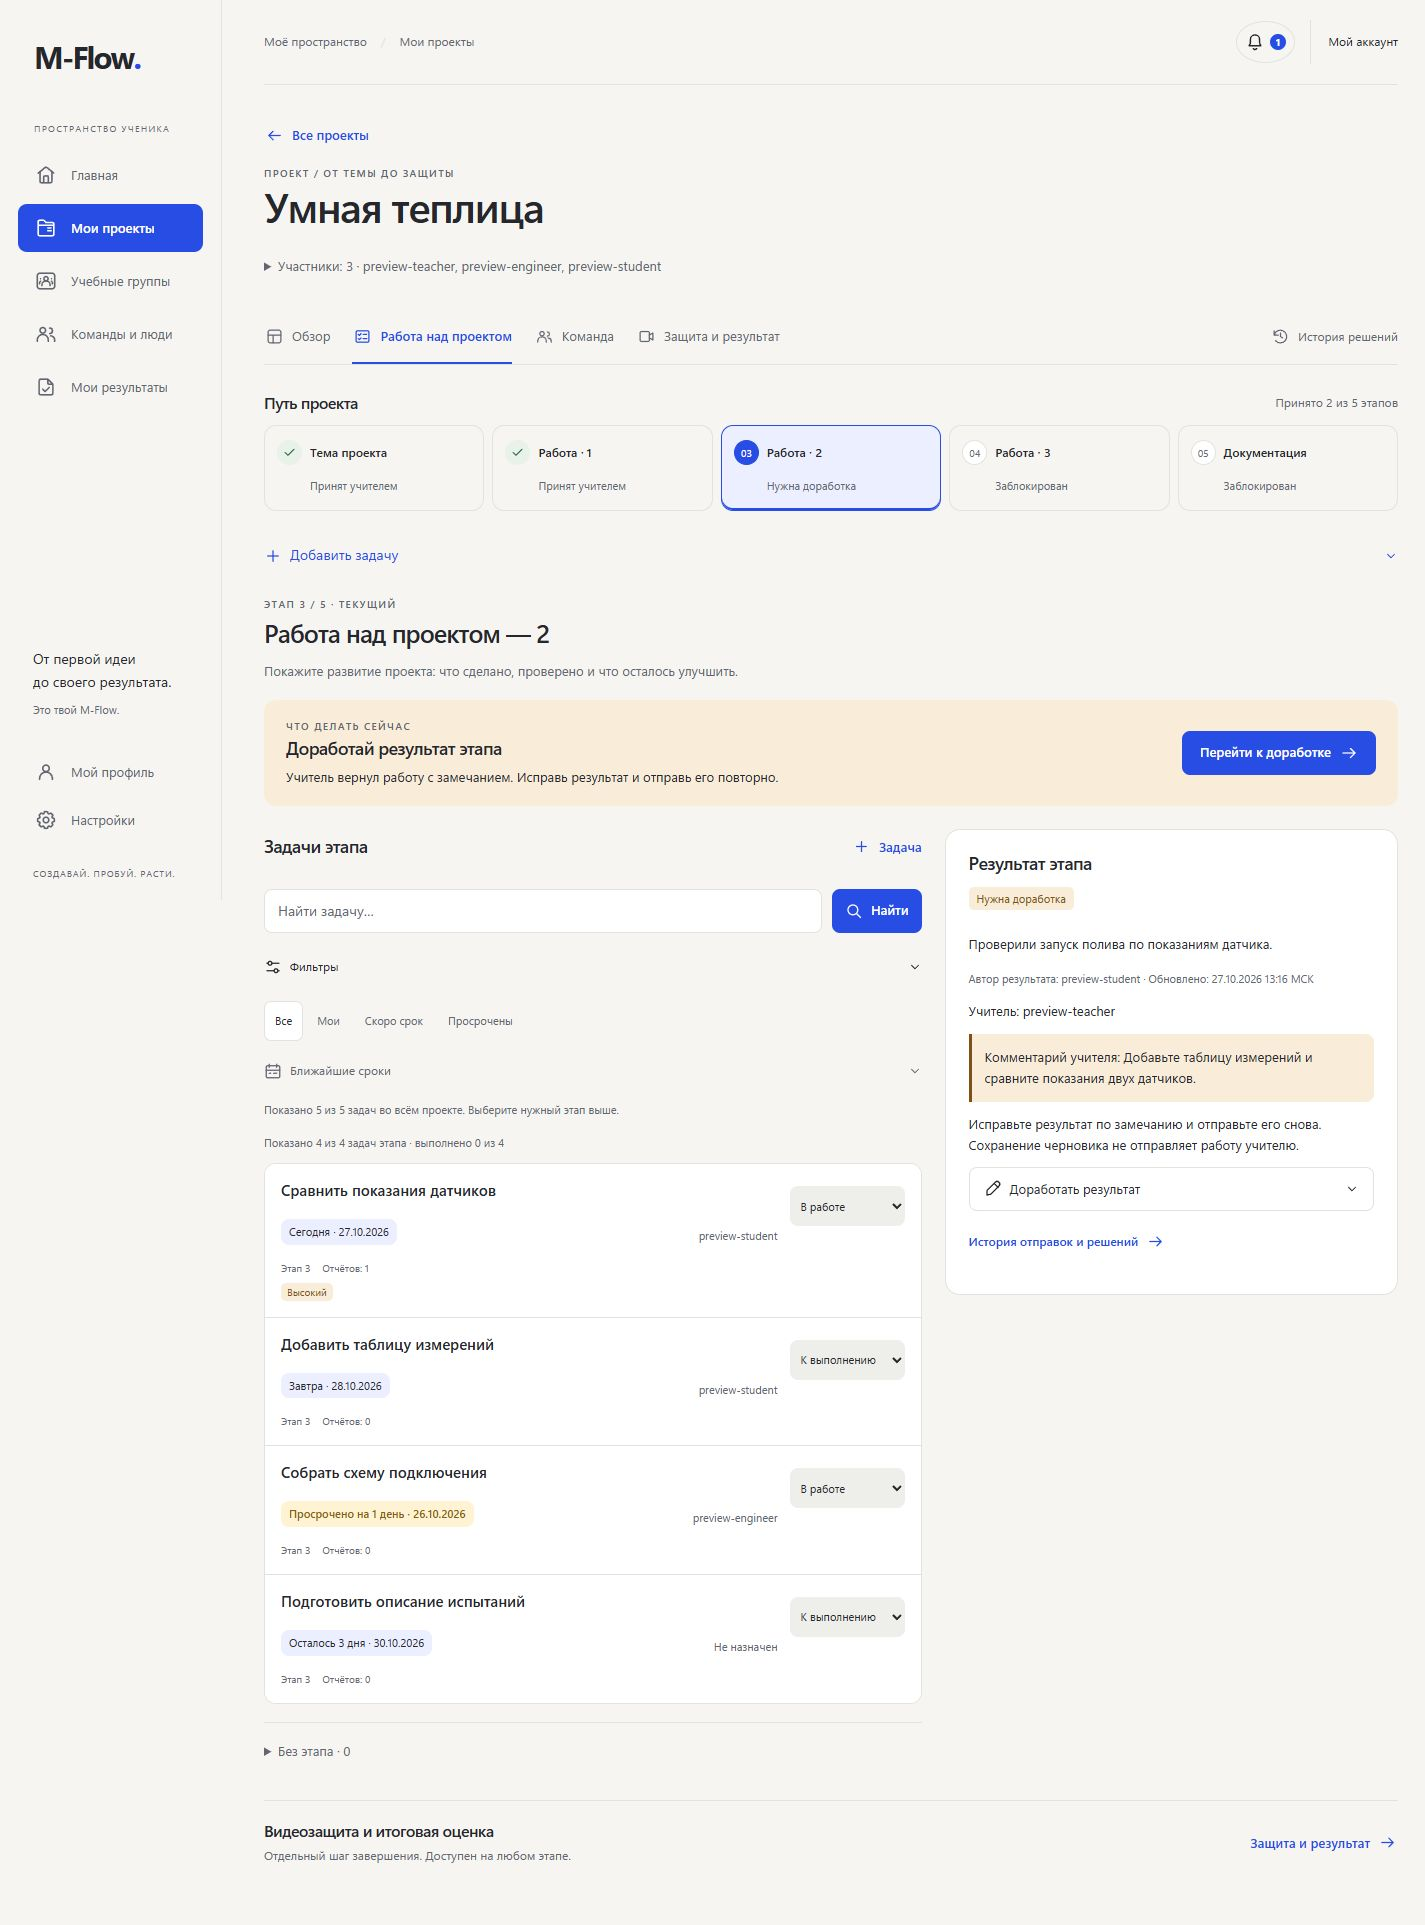
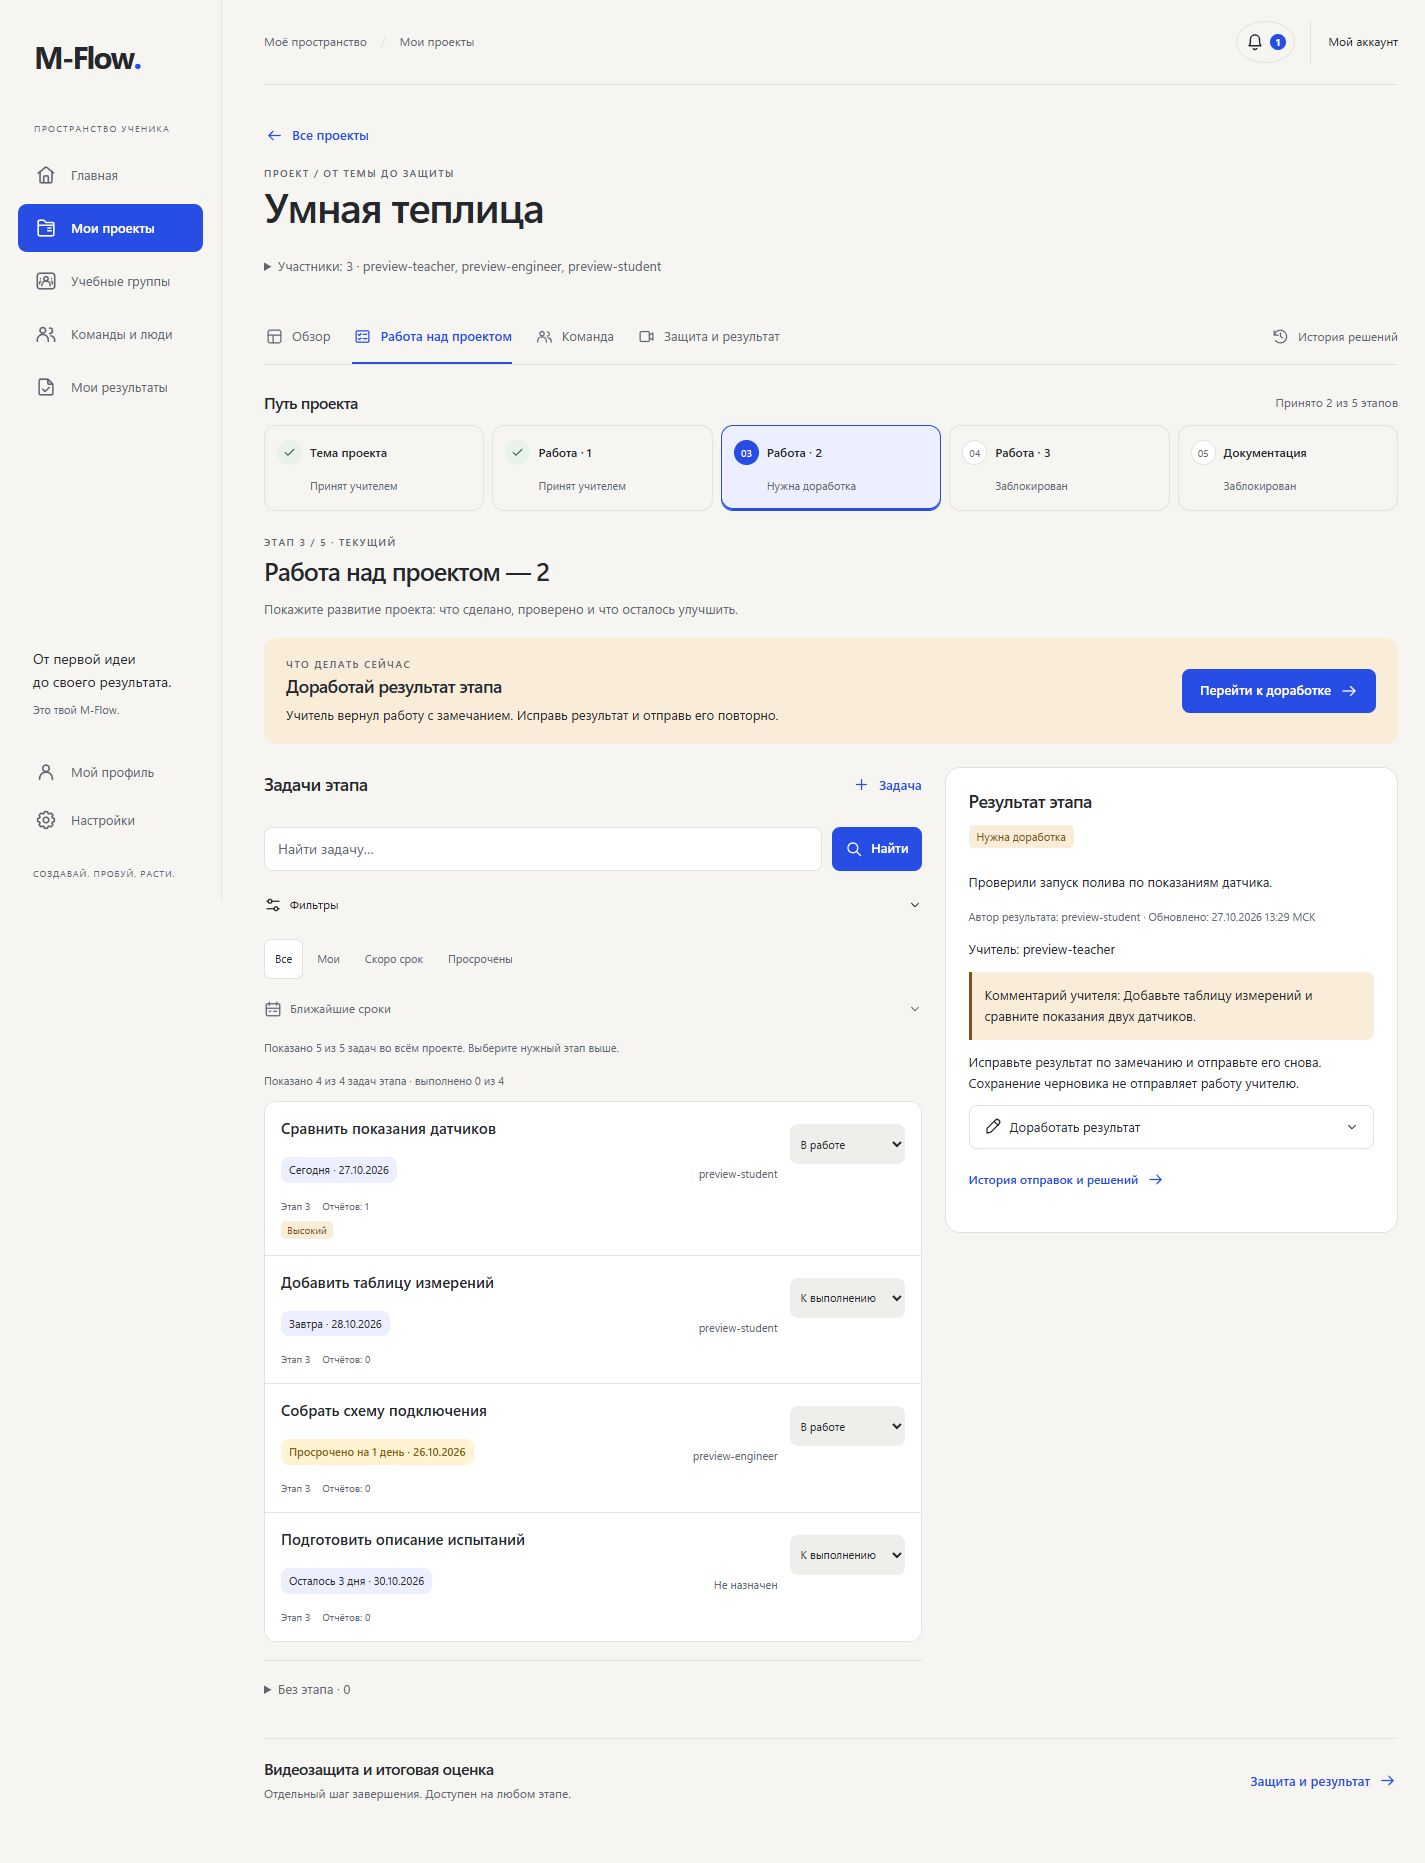
Убрана дублирующая кнопка создания задачи
В режиме боковых панелей скрывается запасной заголовок формы; без JavaScript форма остаётся доступна. Обновлены версия CSS и скриншоты. Проверены кнопка, открытие формы и мобильная ширина; CI PR #5 прошёл Python 3.12/3.14 и восемь JavaScript-наборов.

diff --git a/static/project-work.css b/static/project-work.css
@@ -1,6 +1,8 @@
 /* Existing M-Flow tokens and icons; all task/stage forms retain their server paths. */
 html body.mf-v2 .project-workspace .project-metrics{display:none}
 html body.mf-v2 #task-board.project-work{margin:24px 0}
+html body.mf-v2 #task-board.board-enhanced .task-create>summary{display:none}
+html body.mf-v2 #task-board.board-enhanced .task-create{margin:0}
 html body.mf-v2 .pw-route-caption{display:flex;align-items:center;justify-content:space-between;gap:15px;margin-bottom:12px}
 html body.mf-v2 .pw-route-caption h2{font-size:16px;margin:0}
 html body.mf-v2 .pw-route-caption>span{font-size:12px;color:var(--mf-muted)}

diff --git a/app.py b/app.py
@@ -1972,7 +1972,7 @@ def project(project_id, stage_submitted=None, stage_error="", work_mode=False, u
         PAGE_STYLE
         + f"""
         <link rel="stylesheet" href="/static/project-workspace.css?v=20261014-feedback">
-        <link rel="stylesheet" href="/static/task-board.css?v=20261019"><link rel="stylesheet" href="/static/project-work.css?v=20261027"><script src="/static/project-work.js?v=20261027" defer></script><script src="/static/task-board.js?v=20261027" defer></script>
+        <link rel="stylesheet" href="/static/task-board.css?v=20261019"><link rel="stylesheet" href="/static/project-work.css?v=20261027-finish"><script src="/static/project-work.js?v=20261027" defer></script><script src="/static/task-board.js?v=20261027" defer></script>
         <div class="container">
             {render_header(current_user)}
             <main class="project-workspace" data-project-views data-work-default="{int(work_mode)}">
